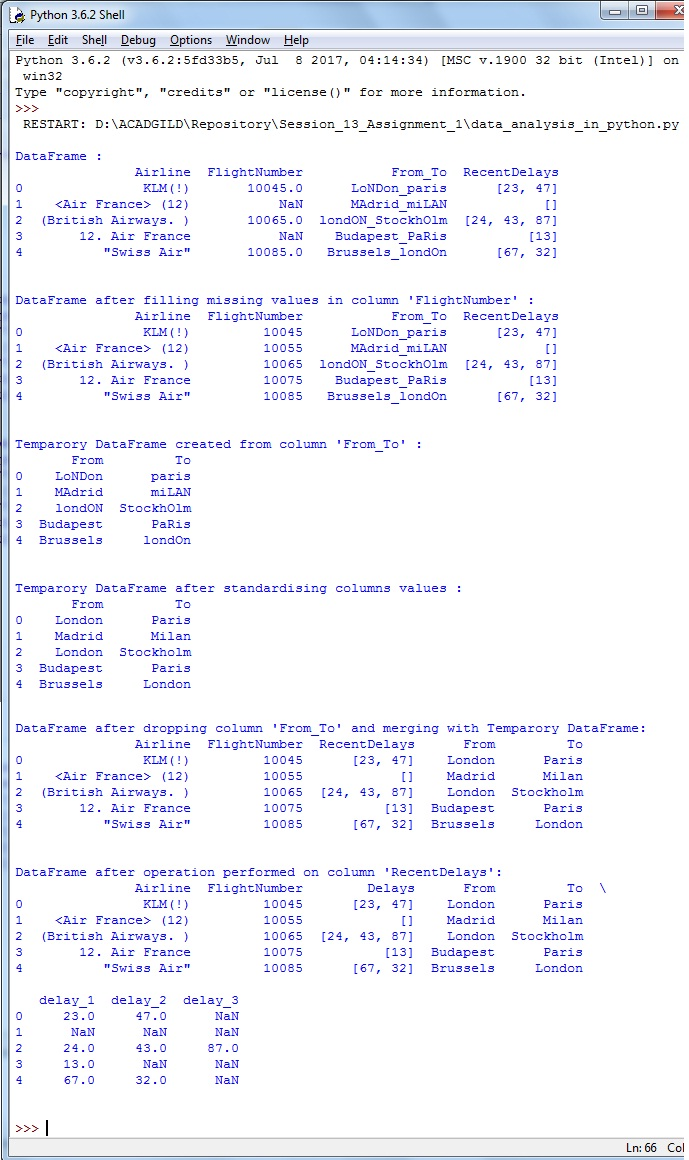
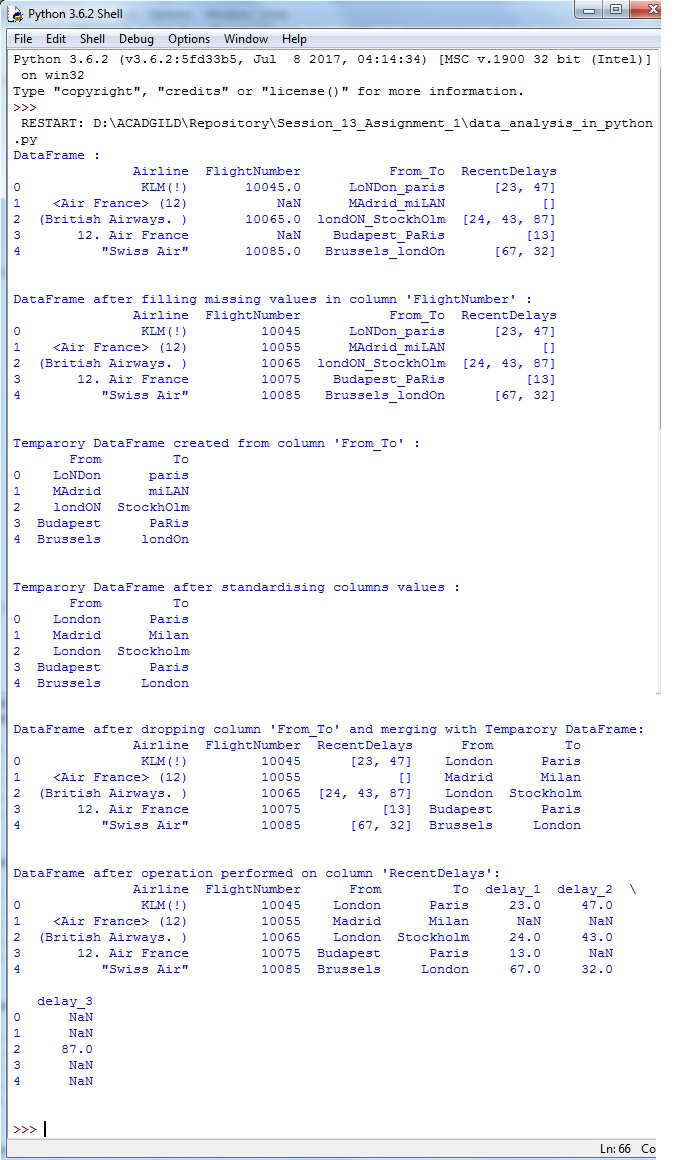
Modified

diff --git a/data_analysis_in_python.py b/data_analysis_in_python.py
@@ -59,7 +59,7 @@ def column_operations(df):
     Problem_5 :
     1. Create new column from a existing column.
     2. Use NaN for missing values.
-    3. Rename a column.
+    3. Drop a column.
     """
     
     max_len = max(map(lambda x : len(x), df['RecentDelays']))
@@ -71,7 +71,7 @@ def column_operations(df):
             except :
                 df_list.append(np.nan)
             df[f'delay_{i+1}'] = pd.DataFrame(df_list)
-    df.rename(columns={'RecentDelays' : 'Delays'}, inplace=True)
+    df.drop('RecentDelays', axis=1, inplace=True)
     return df
 
         
